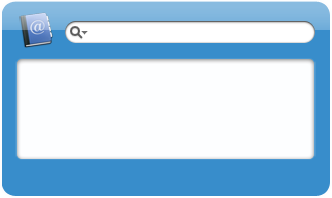
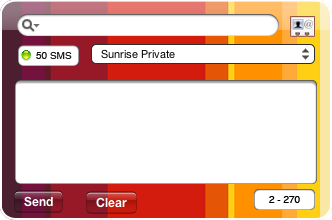
-- Adding images for web Site

diff --git a/SMSwiss.wdgtproj/project.wdgt/SMSwiss.html b/SMSwiss.wdgtproj/project.wdgt/SMSwiss.html
@@ -16,17 +16,21 @@
     <script type="text/javascript" src="Parts/GlassButton.js" charset="utf-8"></script>
 	<script type="text/javascript" src="SettingsEngine.js" charset="utf-8"></script>
     <script type="text/javascript" src="SMSwiss.js" charset="utf-8"></script>
+<script type="text/javascript" src="Parts/PopupButton.js" charset="utf-8"></script>
 </head>
 <body onload="load();">
     <div id="front">
         <!-- Front main content -->
-		<img id="frontImg" src="Images/Skins/SMSwissBlue.png" alt="" apple-locked="true">
+		<img id="frontImg" src="Images/Skins/SMSwissSunrise.png" alt="" apple-locked="true">
         
-		<input type="search" value="" placeholder="" results="10" incremental="incremental" class="apple-textfield apple-no-children" apple-part="com.apple.Dashcode.part.searchfield" id="refererField" apple-group="searchfield" apple-locked="true">
+		<input type="search" value="" placeholder="" results="10" incremental="incremental" class="apple-textfield apple-no-children" apple-part="com.apple.Dashcode.part.searchfield" id="refererField" apple-group="searchfield">
     
 		<textarea class="apple-textarea apple-no-children" apple-part="com.apple.Dashcode.part.textarea" id="smsTextArea" apple-group="textarea" apple-locked="true"></textarea>
 		
 		<div class="apple-no-children" id="info" apple-locked="true" apple-part="com.apple.Dashcode.part.infobutton" apple-default-image-visibility="hidden"></div>
+    <div apple-part="com.apple.Dashcode.part.roundedpopupbutton" class="apple-no-children" apple-style="image-theme: 0; image-shape: 3; image-button-type: 1; image-opacity: 1.00; image-top-color: 1.0000,1.0000,1.0000; image-bottom-color: 0.6700,0.6700,0.6700; image-radius: 5,5,5,5; image-border: 1; image-border-color: 0.1810,0.1810,0.1810; image-border-width: 1; shine-height: 0.50; shadow-include-shadow: 0; shadow-blur: 3.00;" id="popup" apple-group="popup"></div>
+    <div apple-part="com.apple.Dashcode.part.glassbutton" class="apple-no-children" id="glassbutton" apple-group="glassbutton"></div>
+    <div apple-part="com.apple.Dashcode.part.glassbutton" class="apple-no-children" id="glassbutton1" apple-group="glassbutton1"></div>
     </div>
     <div id="back">
        <img id="backImg" src="Images/back.png" alt="" apple-locked="true" apple-part="com.apple.Dashcode.part.backimage" apple-style=" image-radius: 12,12,12,12; image-border: 1; image-border-color: 0.1500,0.1500,0.1500; image-border-width: 3; shadow-include-shadow: 1; shadow-blur: 9.00; shadow-offset: -1.00,-6.00; shadow-color: 0.0000,0.0000,0.0000,0.3333;">

diff --git a/SMSwiss.wdgtproj/project.wdgt/Parts/setup.js b/SMSwiss.wdgtproj/project.wdgt/Parts/setup.js
@@ -5,5 +5,8 @@ function setupParts() {
     setupParts.called = true;
     CreateInfoButton('info', { frontID: 'front', foregroundStyle: 'white', backgroundStyle: 'black', onclick: 'showBack' });
     CreateGlassButton('done', { text: 'Done', onclick: 'showFront' });
+    CreatePopupButton('popup', { options: unescape('[[%27Sunrise Private%27%2C %27Item 1%27%2C true]%2C %27Item 2%27%2C %27Item 3%27]'), rightImageWidth: 16, leftImageWidth: 5 });
+    CreateGlassButton('glassbutton', { text: 'Send' });
+    CreateGlassButton('glassbutton1', { text: 'Clear' });
 }
 window.addEventListener('load', setupParts, false);

diff --git a/SMSwiss.wdgtproj/project.wdgt/SMSwiss.css b/SMSwiss.wdgtproj/project.wdgt/SMSwiss.css
@@ -67,7 +67,29 @@ body {
 #refererField {
     font: normal normal normal 16px/normal 'Lucida Grande';
     position: absolute;
-    top: 19px;
-    left: 65px;
-    width: 250px;
+    top: 12px;
+    left: 17px;
+    width: 262px;
+}
+
+#popup {
+    position: absolute;
+    text-align: left;
+    left: 91px;
+    width: 224px;
+    top: 44px;
+    font-size: 11px;
+    font-family: HelveticaNeue;
+}
+
+#glassbutton {
+    position: absolute;
+    top: 190px;
+    left: 14px;
+}
+
+#glassbutton1 {
+    position: absolute;
+    top: 191px;
+    left: 86px;
 }
